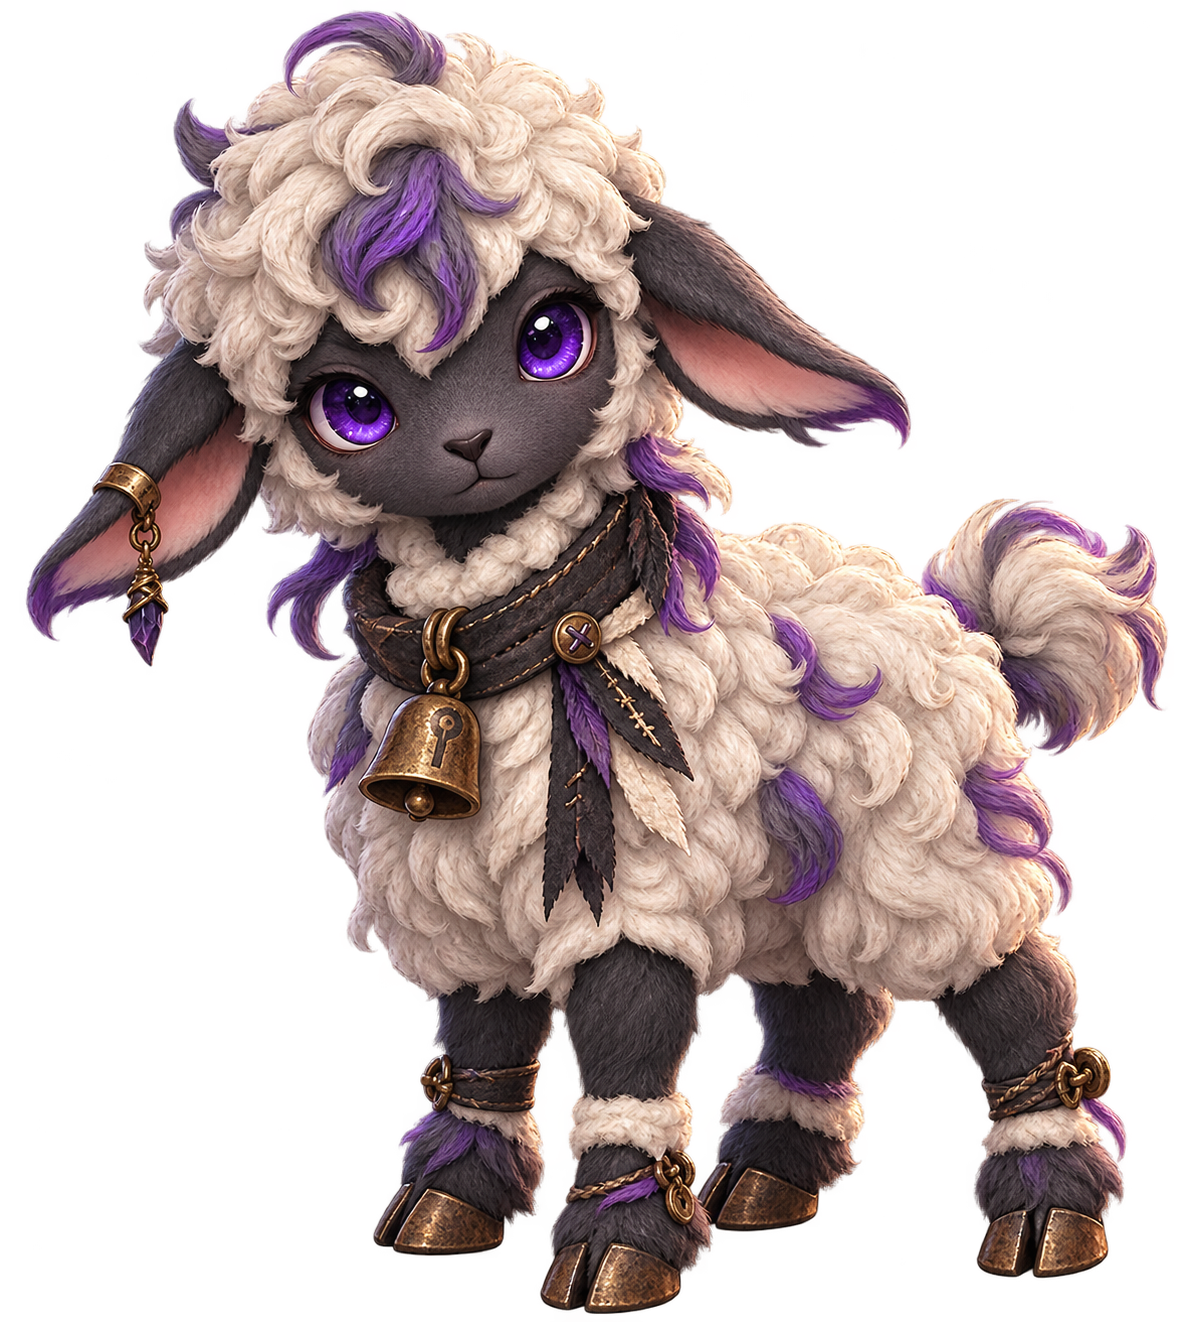
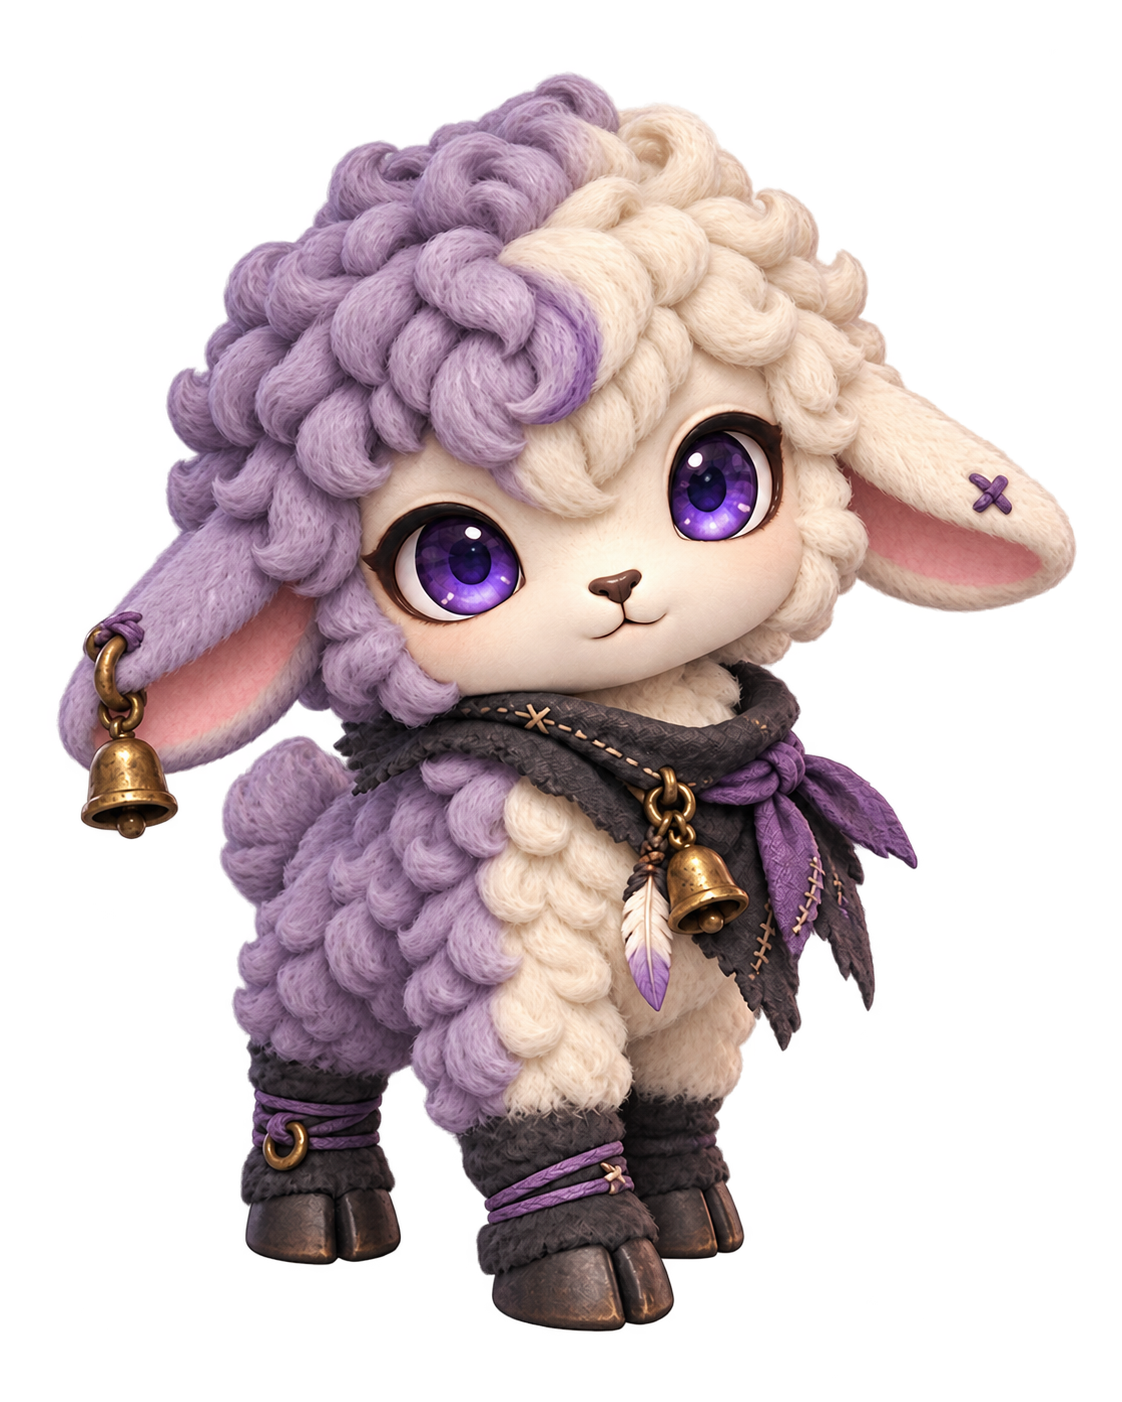
Fix collectible silhouettes

diff --git a/collection.js b/collection.js
@@ -449,9 +449,7 @@ function injectEnhancementStyles() {
       gap: 8px;
     }
 
-    #collection-rarity-stats {
-      margin-top: 8px;
-    }
+    #collection-rarity-stats { margin-top: 8px; }
 
     .cache-stat-card {
       min-width: 0;
@@ -570,9 +568,7 @@ function injectEnhancementStyles() {
       box-shadow: 0 0 28px rgba(184,140,255,.12);
     }
 
-    #collection-book.is-complete #cache-completion-banner {
-      display: block;
-    }
+    #collection-book.is-complete #cache-completion-banner { display: block; }
 
     #cache-completion-seal {
       width: 50px;
@@ -1178,7 +1174,6 @@ async function initialize() {
     }
   } catch (error) {
     console.error(error);
-
     setStatus(
       error && error.message
         ? error.message
@@ -1195,15 +1190,8 @@ searchForm.addEventListener("submit", async (event) => {
     await loadViewer(searchInput.value, seriesSelect.value);
   } catch (error) {
     console.error(error);
-
     collectionBook.hidden = true;
-
-    setStatus(
-      error && error.message
-        ? error.message
-        : "The Shepherd's Cache could not be opened.",
-      "error"
-    );
+    setStatus(error && error.message ? error.message : "The Shepherd's Cache could not be opened.", "error");
   }
 });
 
@@ -1216,7 +1204,6 @@ seriesSelect.addEventListener("change", async () => {
 
     if (selectedSeries) {
       currentSeries = selectedSeries;
-
       seriesCaption.textContent =
         String(selectedSeries.series_subtitle || "") +
         " · " +
@@ -1233,15 +1220,8 @@ seriesSelect.addEventListener("change", async () => {
     await loadViewer(username, seriesId);
   } catch (error) {
     console.error(error);
-
     collectionBook.hidden = true;
-
-    setStatus(
-      error && error.message
-        ? error.message
-        : "The Shepherd's Cache could not be opened.",
-      "error"
-    );
+    setStatus(error && error.message ? error.message : "The Shepherd's Cache could not be opened.", "error");
   }
 });
 

diff --git a/index.html b/index.html
@@ -88,7 +88,7 @@
   </main>
 
   <script src="config.js?v=series-v2"></script>
-  <script src="collection.js?v=series-v2"></script>
+  <script src="collection.js?v=silhouette-fit-v1"></script>
   <script src="collection-details.js?v=series-v2"></script>
   <script src="collection-achievements.js?v=series-v2"></script>
 </body>
